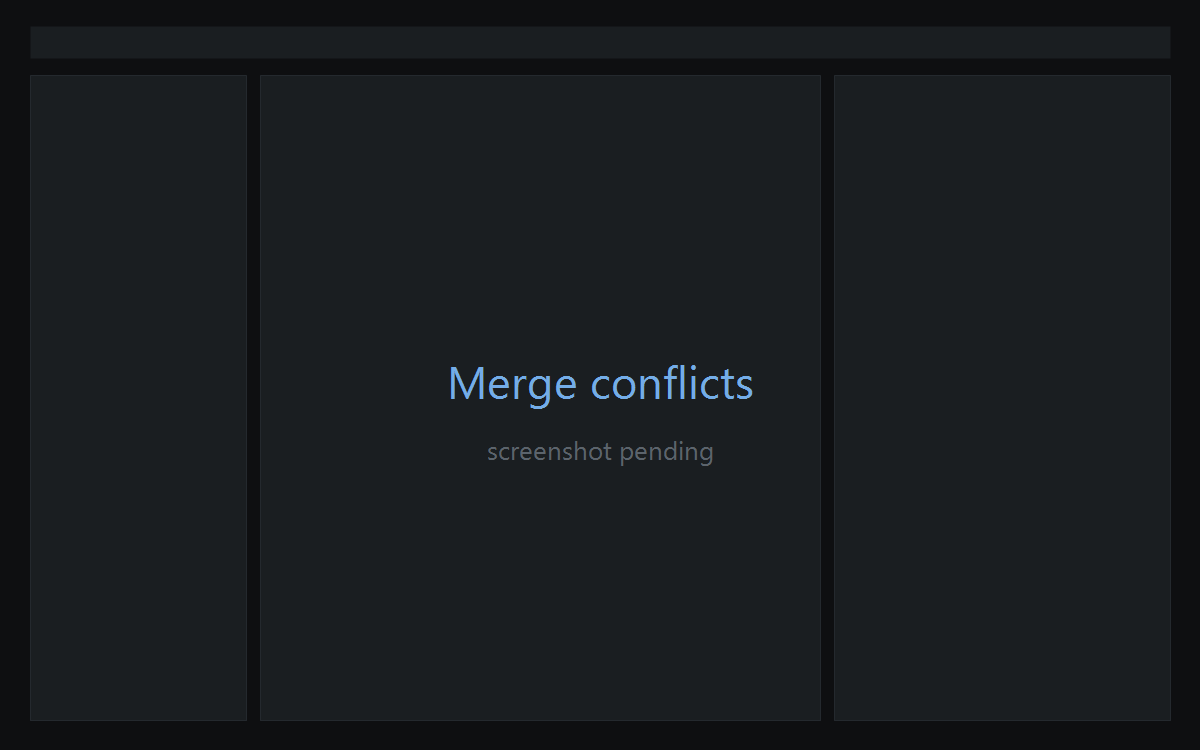
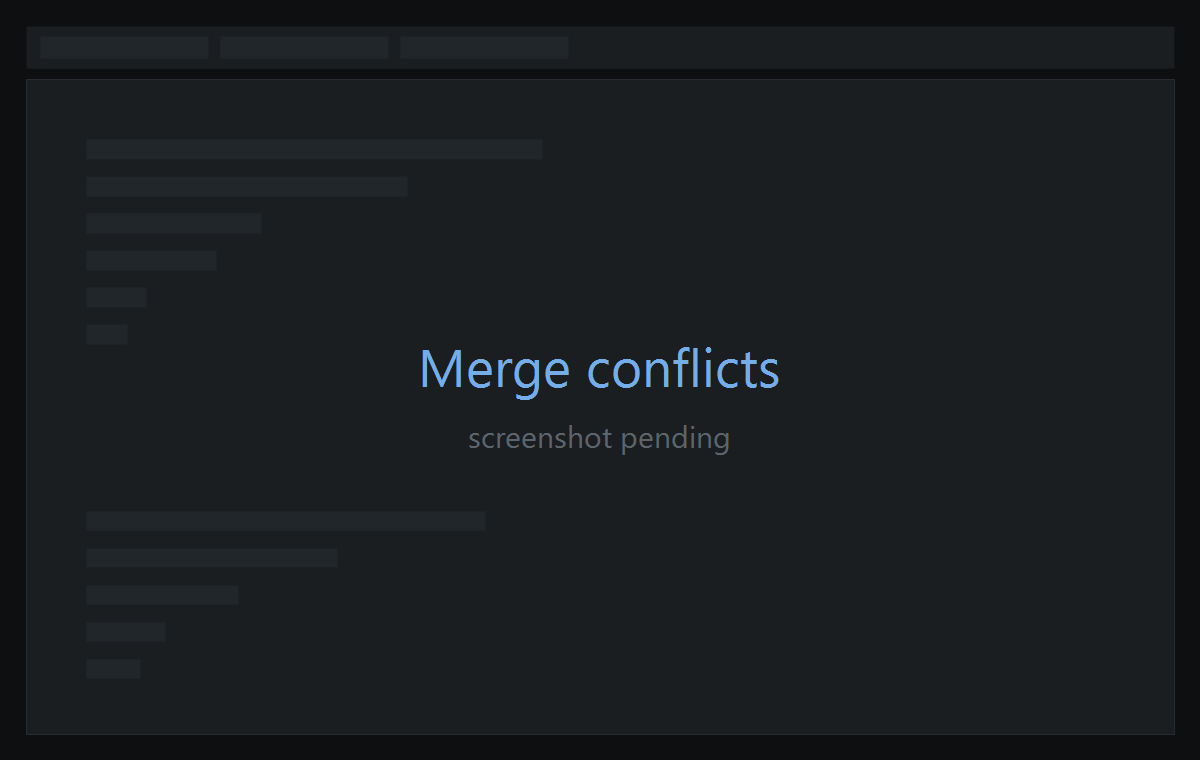
docs: rebuild the README hero and feature wall
The first pass got the content right and the presentation wrong: full-width
stacked blocks, each a heading over an image over a paragraph, which reads as
a plain column of text no matter how good the copy is. Orca and Superset -
the two READMEs #428 points at - both get their density from the same device,
a two-column table where the blurb sits beside its image rather than above it.

Adopts that shape:

- Feature wall is now a <table>, text left / image right, six rows, each with
  a "Source ->" link into the module that implements it.
- Hero is centred HTML rather than a markdown heading in a div: name, five
  badges (release, CI, license, platforms, GPUI), a two-line tagline, a
  standalone Download call to action, the hero image at 960px, and a subnav.
- Supported agents lead with <kbd> chips carrying each CLI's favicon, with the
  status table kept underneath - and a line making explicit that this is a
  short enumerated list, not the "any CLI agent" claim both of those READMEs
  make.
- Horizontal rules between major sections, and a value-prop block between the
  hero and the features so the page has something scannable above the fold.
- Contributors strip above the license.

Placeholders regenerated to match: the feature images now render in a 50%
column, roughly 400px, where a whole-window wireframe is illegible, so
everything except the hero is drawn as a cropped single-surface panel instead.
[…]

Changed region(s): [[0.3392, 0.46, 0.6475, 0.6133], [0.185, 0.184, 0.2158, 0.3067], [0.185, 0.6747, 0.2158, 0.736]]

diff --git a/README.md b/README.md
@@ -1,103 +1,175 @@
-<div align="center">
+<h1 align="center">Jerry</h1>
 
-# Jerry
+<p align="center">
+  <a href="https://github.com/ColinEspinas/jerry/releases/latest"><img src="https://img.shields.io/github/v/release/ColinEspinas/jerry?style=flat&label=release&color=5cb87f" alt="Latest release" /></a>
+  <a href="https://github.com/ColinEspinas/jerry/actions/workflows/ci.yml"><img src="https://img.shields.io/github/actions/workflow/status/ColinEspinas/jerry/ci.yml?style=flat&branch=master&label=CI" alt="CI status" /></a>
+  <a href="#license"><img src="https://img.shields.io/badge/license-MIT%20OR%20Apache--2.0-74ade8?style=flat" alt="License: MIT OR Apache-2.0" /></a>
+  <img src="https://img.shields.io/badge/macOS%20%7C%20Linux%20%7C%20Windows-4493F8?style=flat" alt="Supported platforms: macOS, Linux, Windows" />
+  <a href="https://www.gpui.rs/"><img src="https://img.shields.io/badge/built%20with-GPUI-e2a336?style=flat" alt="Built with GPUI" /></a>
+</p>
 
-**Supervise a fleet of AI coding agents — each one in its own real git worktree.**
+<p align="center">
+  <strong>Supervise a fleet of AI coding agents.</strong><br/>
+  Run Claude Code and Codex side by side — each in its own real git worktree, all in one window.
+</p>
 
-[![Release](https://img.shields.io/github/v/release/ColinEspinas/jerry?label=release&color=5cb87f)](https://github.com/ColinEspinas/jerry/releases/latest)
-[![CI](https://github.com/ColinEspinas/jerry/actions/workflows/ci.yml/badge.svg)](https://github.com/ColinEspinas/jerry/actions/workflows/ci.yml)
-[![License: MIT OR Apache-2.0](https://img.shields.io/badge/license-MIT%20OR%20Apache--2.0-74ade8)](#license)
+<h3 align="center"><a href="../../releases/latest"><ins>Download Jerry</ins></a></h3>
 
-[**Download**](../../releases/latest) &nbsp;·&nbsp; [Install from source](#install) &nbsp;·&nbsp; [Supported agents](#supported-agents) &nbsp;·&nbsp; [Contributing](CONTRIBUTING.md)
+<p align="center">
+  <img src="docs/images/hero.png" alt="Jerry: the session rail, an agent running in the work surface, and its diff on the right" width="960" />
+</p>
 
-<img src="docs/images/hero.png" alt="Jerry: the session rail, an agent running in the work surface, and its diff on the right" width="880">
-
-</div>
+<p align="center">
+  <sub><a href="#install">Install</a> &nbsp;·&nbsp; <a href="#supported-agents">Supported agents</a> &nbsp;·&nbsp; <a href="docs/architecture/overview.md">Architecture</a> &nbsp;·&nbsp; <a href="CONTRIBUTING.md">Contributing</a> &nbsp;·&nbsp; <a href="../../issues">Issues</a></sub>
+</p>
 
 > [!NOTE]
 > **Jerry is a working prototype, not a released product.** It does real work — real worktrees, real
 > agent processes, real `git` — but expect rough edges. [Open issues](../../issues) is the honest
 > list of what's in progress.
 
-## The idea
+## One window, every agent
 
 You already give each task its own agent. Jerry gives each agent its own **real git worktree** — a
-separate checkout on its own branch, not a sandbox and not a copy — plus a terminal to run in, a diff
-of what it changed, and an editor to fix what it got wrong.
+separate checkout on its own branch, not a sandbox and not a copy — then puts a terminal, a diff, an
+editor and a git graph around it.
 
-The rail on the left is every session at once. The rest of the window is whichever one you're looking
-at.
+- **Every agent gets a worktree.** Two agents editing the same file never collide.
+- **Every session in one rail.** Status comes from the underlying git and process state, not from
+  what the agent says about itself.
+- **Review without leaving.** Diff against the detected base branch, drop line-anchored notes, send
+  them back to the agent that wrote the code.
+- **Fix it yourself when that's faster.** A real editor with LSP, in the same window.
+- **Resolve the merge in place.** Per-hunk accept/reject, or the conflict markers by hand.
+
+---
 
 ## Features
 
+<table>
+<tr>
+<td width="50%" valign="middle">
+
 ### One worktree per session
 
-<img src="docs/images/rail.png" alt="The session rail, one row per worktree and agent" width="720">
+Every session is a real `git worktree` on its own branch. The rail shows all of them at once, with
+status derived from the underlying git and process state — Claude Code reports structurally over a
+hook side-channel, other agents fall back to terminal-title and quiescence signals.
 
-Every session is a real `git worktree` on its own branch, so two agents editing the same file never
-collide. The rail shows all of them at once, with status derived from the underlying git and process
-state rather than from anything the agent says about itself. Claude Code sessions report structural
-status over a hook side-channel; other agents fall back to terminal-title and quiescence signals.
+[Source →](crates/app/src/rail/)
+
+</td>
+<td width="50%">
+  <img src="docs/images/rail.png" alt="The session rail, one row per worktree and agent" width="100%" />
+</td>
+</tr>
+<tr>
+<td width="50%" valign="middle">
 
 ### A real terminal, not a log pane
 
-<img src="docs/images/terminal.png" alt="An agent CLI running in the work surface" width="720">
+The agent's own CLI runs in a real PTY, rendered through `alacritty_terminal` grid emulation —
+cursor-addressed redraw, so its live TUI behaves exactly as it does in your own terminal. Tabs are
+scoped per worktree, with a plain shell tab alongside the agents.
 
-The work surface runs the agent's own CLI in a real PTY, rendered through `alacritty_terminal` grid
-emulation — cursor-addressed redraw, so the agent's live TUI behaves exactly as it does in your own
-terminal instead of scrolling past as a text dump. Tabs are scoped per worktree, and a plain shell
-tab sits alongside the agents in the same directory.
+[Source →](crates/app/src/work_surface/)
 
-### Diff, with notes that go back to the agent
+</td>
+<td width="50%">
+  <img src="docs/images/terminal.png" alt="An agent CLI running in the work surface" width="100%" />
+</td>
+</tr>
+<tr>
+<td width="50%" valign="middle">
 
-<img src="docs/images/review.png" alt="The diff view with line-anchored review notes" width="720">
+### Diff, with notes that go back
 
 Review a session's changes against its automatically detected base branch. Line-anchored notes batch
-into a single prompt and get delivered to a *named* agent's PTY, then stay pinned afterwards so you
-can check the revision against what you actually asked for.
+into a single prompt, get delivered to a *named* agent's PTY, and stay pinned afterwards so you can
+check the revision against what you actually asked for.
+
+[Source →](crates/app/src/review_notes/)
+
+</td>
+<td width="50%">
+  <img src="docs/images/review.png" alt="The diff view with line-anchored review notes" width="100%" />
+</td>
+</tr>
+<tr>
+<td width="50%" valign="middle">
 
 ### An editor with real language support
 
-<img src="docs/images/editor.png" alt="The code editor with LSP diagnostics and completions" width="720">
-
 Full text editing — cursor, selection, IME — with `tree-sitter` highlighting and a hand-written LSP
 client behind it: hover, go-to-definition, diagnostics and completions from `rust-analyzer`,
-`typescript-language-server`, Vue Language Tools, `pyright` and `gopls`. Agents get things wrong;
-fixing them shouldn't mean leaving the window.
+`typescript-language-server`, Vue Language Tools, `pyright` and `gopls`.
+
+[Source →](crates/app/src/code_surface/)
+
+</td>
+<td width="50%">
+  <img src="docs/images/editor.png" alt="The code editor with LSP diagnostics and completions" width="100%" />
+</td>
+</tr>
+<tr>
+<td width="50%" valign="middle">
 
 ### Merge conflicts, structurally
 
-<img src="docs/images/conflicts.png" alt="Structural per-hunk merge conflict resolution" width="720">
-
 Resolve a conflicted merge per hunk with accept/reject, or drop into the same editor and edit the
-conflict markers by hand. Both paths are the real resolution — whichever one suits the conflict in
-front of you.
+conflict markers by hand. Both paths are the real resolution — whichever suits the conflict in front
+of you.
+
+[Source →](crates/app/src/merge/)
+
+</td>
+<td width="50%">
+  <img src="docs/images/conflicts.png" alt="Structural per-hunk merge conflict resolution" width="100%" />
+</td>
+</tr>
+<tr>
+<td width="50%" valign="middle">
 
 ### The git graph
-
-<img src="docs/images/graph.png" alt="The git graph tab" width="720">
 
 Commits, branches and worktrees in one view, with an interactive rebase mode whose plan you edit
 before anything runs.
 
-### Also in the box
+[Source →](crates/app/src/graph_view/)
+
+</td>
+<td width="50%">
+  <img src="docs/images/graph.png" alt="The git graph tab" width="100%" />
+</td>
+</tr>
+</table>
+
+**Also in the box:**
 
 - **Undo/redo for worktree-level actions** — committing or discarding a session's changes is
   reversible from the command palette's History group.
 - **Per-agent line provenance** — when two agents share a worktree, which one wrote each line.
-- **Agent run history** — a repo → worktree → run index with full transcripts, and `--resume` to pick
-  a previous Claude Code conversation back up.
-- **Rate-limit budget readout** — per-provider 5h/7d usage, next to the agent pane.
-- **Search** across the worktree, in the right panel.
-- **Themes** — six bundled, plus VS Code theme import. Themes are plain TOML where every key is
-  optional and anything unset is inherited, so a three-line file is a complete theme. See
-  [`docs/themes.md`](docs/themes.md).
-- **Sounds** for agent events — off by default, end to end.
-- **Self-update** from GitHub releases.
+- **[Agent run history](crates/app/src/run_history/)** — a repo → worktree → run index with full
+  transcripts, and `--resume` to pick a previous Claude Code conversation back up.
+- **[Rate-limit budget readout](crates/app/src/budget/)** — per-provider 5h/7d usage, next to the
+  agent pane.
+- **[Search](crates/app/src/search/)** across the worktree, in the right panel.
+- **[Themes](docs/themes.md)** — six bundled, plus VS Code theme import. Plain TOML where every key
+  is optional and anything unset is inherited, so a three-line file is a complete theme.
+- **[Sounds](crates/app/src/sound/)** for agent events — off by default, end to end.
+- **[Self-update](crates/app/src/updater/)** from GitHub releases.
 - **Settings** for General, Agents, Worktrees, Appearance, Themes, Keybindings, Editor, Language
   servers, Notifications and Integrations.
 
+---
+
 ## Supported agents
+
+<p>
+  <a href="https://claude.com/claude-code"><kbd><img src="https://www.google.com/s2/favicons?domain=claude.com&sz=64" alt="" width="16" valign="middle" /> Claude Code</kbd></a> &nbsp;
+  <a href="https://github.com/openai/codex"><kbd><img src="https://www.google.com/s2/favicons?domain=openai.com&sz=64" alt="" width="16" valign="middle" /> Codex</kbd></a> &nbsp;
+  <kbd>Plain shell</kbd>
+</p>
 
 | Agent | CLI | Status signal |
 | --- | --- | --- |
@@ -109,22 +181,28 @@ Both CLIs are resolved on `$PATH` and spawned directly in the session's worktree
 bundle, wrap or proxy either one, so you bring your own install and your own auth; **Settings ›
 Agents** tells you whether each is actually on your `$PATH`.
 
+Unlike the tools Jerry is modelled on, this is a **short, explicit list, not "any CLI agent"** — each
+one is a real enum variant with its own spawn and status handling.
 [Cursor CLI support](https://github.com/ColinEspinas/jerry/issues/353) is open, not built.
+
+---
 
 ## Install
 
-**Prebuilt binary** — from the [latest release](../../releases/latest):
+### Prebuilt binary
+
+From the [latest release](../../releases/latest):
 
 | Platform | Asset |
 | --- | --- |
-| macOS (Apple Silicon) | `jerry-macos.tar.gz` |
-| Linux (x86_64) | `jerry-linux.tar.gz` |
-| Windows (x86_64) | `jerry-windows.zip` |
+| macOS (Apple Silicon) | [`jerry-macos.tar.gz`](../../releases/latest) |
+| Linux (x86_64) | [`jerry-linux.tar.gz`](../../releases/latest) |
+| Windows (x86_64) | [`jerry-windows.zip`](../../releases/latest) |
 
 All three ship a binary every release, but maturity is uneven: macOS has been run locally on Apple
 Silicon, Linux builds and runs against both display servers, and Windows is build-verified in CI.
 
-**From source:**
+### From source
 
 ```sh
 git clone https://github.com/ColinEspinas/jerry
@@ -171,13 +249,15 @@ you.
 
 </details>
 
+---
+
 ## Built with
 
-[GPUI](https://www.gpui.rs/) (Zed's UI framework) ·
-[`alacritty_terminal`](https://github.com/zed-industries/alacritty) + `portable-pty` for the
-terminal and PTY layer · [`gix`](https://crates.io/crates/gix) plus the real `git` CLI for version
-control · [`lsp-types`](https://crates.io/crates/lsp-types) with a hand-written client ·
-`tree-sitter` (Rust, TypeScript/TSX, JavaScript, Python) for highlighting.
+[GPUI](https://www.gpui.rs/) (Zed's UI framework) &nbsp;·&nbsp;
+[`alacritty_terminal`](https://github.com/zed-industries/alacritty) + `portable-pty` for terminal and
+PTY &nbsp;·&nbsp; [`gix`](https://crates.io/crates/gix) plus the real `git` CLI for version control
+&nbsp;·&nbsp; [`lsp-types`](https://crates.io/crates/lsp-types) with a hand-written client
+&nbsp;·&nbsp; `tree-sitter` (Rust, TypeScript/TSX, JavaScript, Python) for highlighting.
 
 ## Contributing
 
@@ -185,11 +265,15 @@ Issues and PRs are welcome. [`CONTRIBUTING.md`](CONTRIBUTING.md) covers the proc
 pass before a PR opens; [`CLAUDE.md`](CLAUDE.md) is the single source of truth for how the code
 itself should look, for humans and agents alike.
 
-The workspace is four crates — `wt-core` (git), `pty-core` (processes), `lsp-core` (language
-servers) and `app` (the GPUI application, and the only crate allowed to depend on GPUI). The rules
-behind that split, and the reasoning for each, are in
-[`docs/architecture/`](docs/architecture/overview.md); how a change moves from issue to merged PR is
-in [`docs/development-workflow.md`](docs/development-workflow.md).
+The workspace is four crates — `wt-core` (git), `pty-core` (processes), `lsp-core` (language servers)
+and `app` (the GPUI application, and the only crate allowed to depend on GPUI). The rules behind that
+split, and the reasoning for each, are in [`docs/architecture/`](docs/architecture/overview.md); how
+a change moves from issue to merged PR is in
+[`docs/development-workflow.md`](docs/development-workflow.md).
+
+<a href="https://github.com/ColinEspinas/jerry/graphs/contributors">
+  <img src="https://contrib.rocks/image?repo=ColinEspinas/jerry" alt="Jerry contributors" />
+</a>
 
 ## License
 

diff --git a/docs/images/README.md b/docs/images/README.md
@@ -13,9 +13,14 @@ Each capture replaces the same filename, at roughly the same aspect ratio, with 
 against a real repo and real agents — no mocked rows, no empty states standing in for populated
 ones.
 
+`hero.png` is the only full-window shot. It renders at 960px, so the whole three-zone layout has room
+to read. **Every other image renders in a 50%-wide table cell**, roughly 400px on a desktop browser —
+a full-window screenshot shrunk to that is illegible. Crop each one to its own surface, close enough
+that the thing the block is about is the thing you see.
+
 | File | Surface | What has to be visible |
 | --- | --- | --- |
-| `hero.png` | Whole window | All three zones at once: the rail with several sessions in different states, an agent mid-run in the work surface, its diff on the right. |
+| `hero.png` | Whole window (960px) | All three zones at once: the rail with several sessions in different states, an agent mid-run in the work surface, its diff on the right. |
 | `rail.png` | Session rail | Several worktrees across at least two repos, with agent rows showing different derived statuses and elapsed times. |
 | `terminal.png` | Work surface | An agent CLI's own live TUI rendering correctly, with the per-worktree tab strip and a shell tab beside it. |
 | `review.png` | Diff + review notes | A real diff against a detected base branch with at least one line-anchored note attached. |
@@ -29,5 +34,15 @@ ones.
 anything in frame that shouldn't be public (absolute paths under a home directory, private branch
 names, agent conversation content).
 
-Keep them reasonably sized — these load on the repo's front page. PNG for static surfaces; a GIF is
-only worth it for `hero.png`, and only if it shows something a still can't.
+Keep them reasonably sized — these all load on the repo's front page, unlazily.
+
+PNG for static surfaces. A GIF is worth it only where motion carries something a still can't (an
+agent's status flipping in the rail, a TUI redrawing, notes landing in a PTY). Where one is used,
+pair it with a still fallback rather than shipping the GIF alone:
+
+```html
+<picture>
+  <source srcset="docs/images/rail.gif" type="image/gif">
+  <img src="docs/images/rail.png" alt="..." width="100%" />
+</picture>
+```
